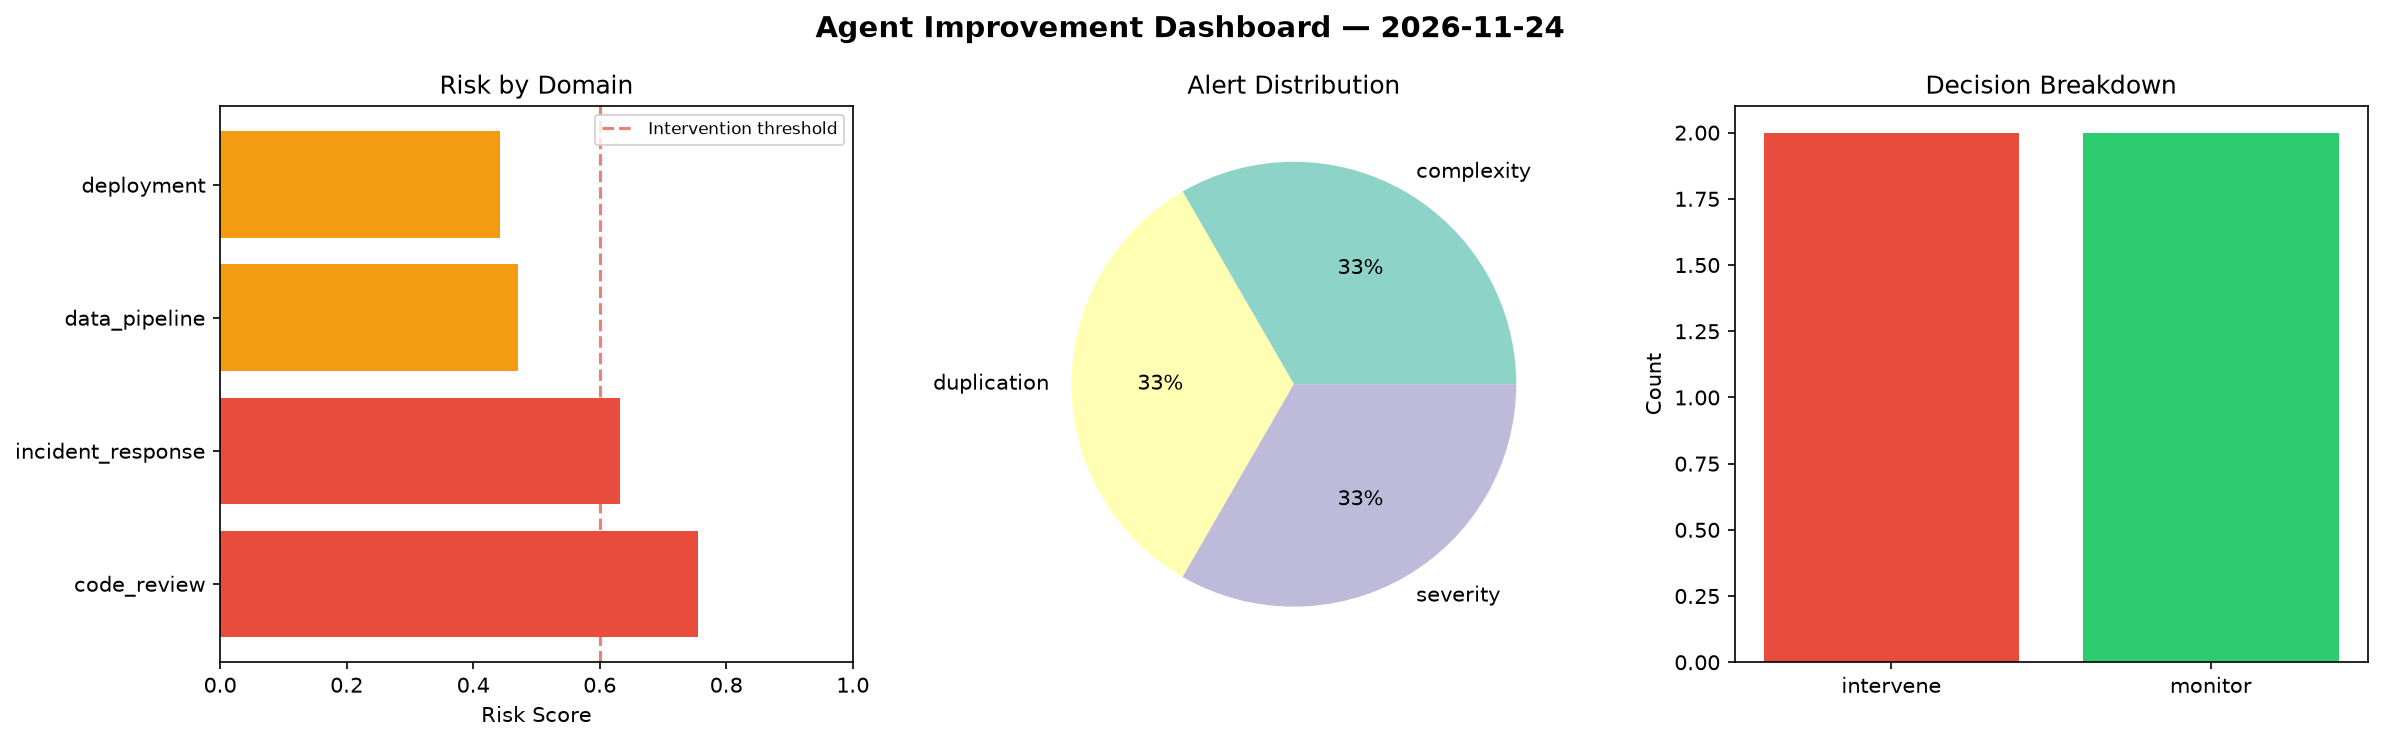
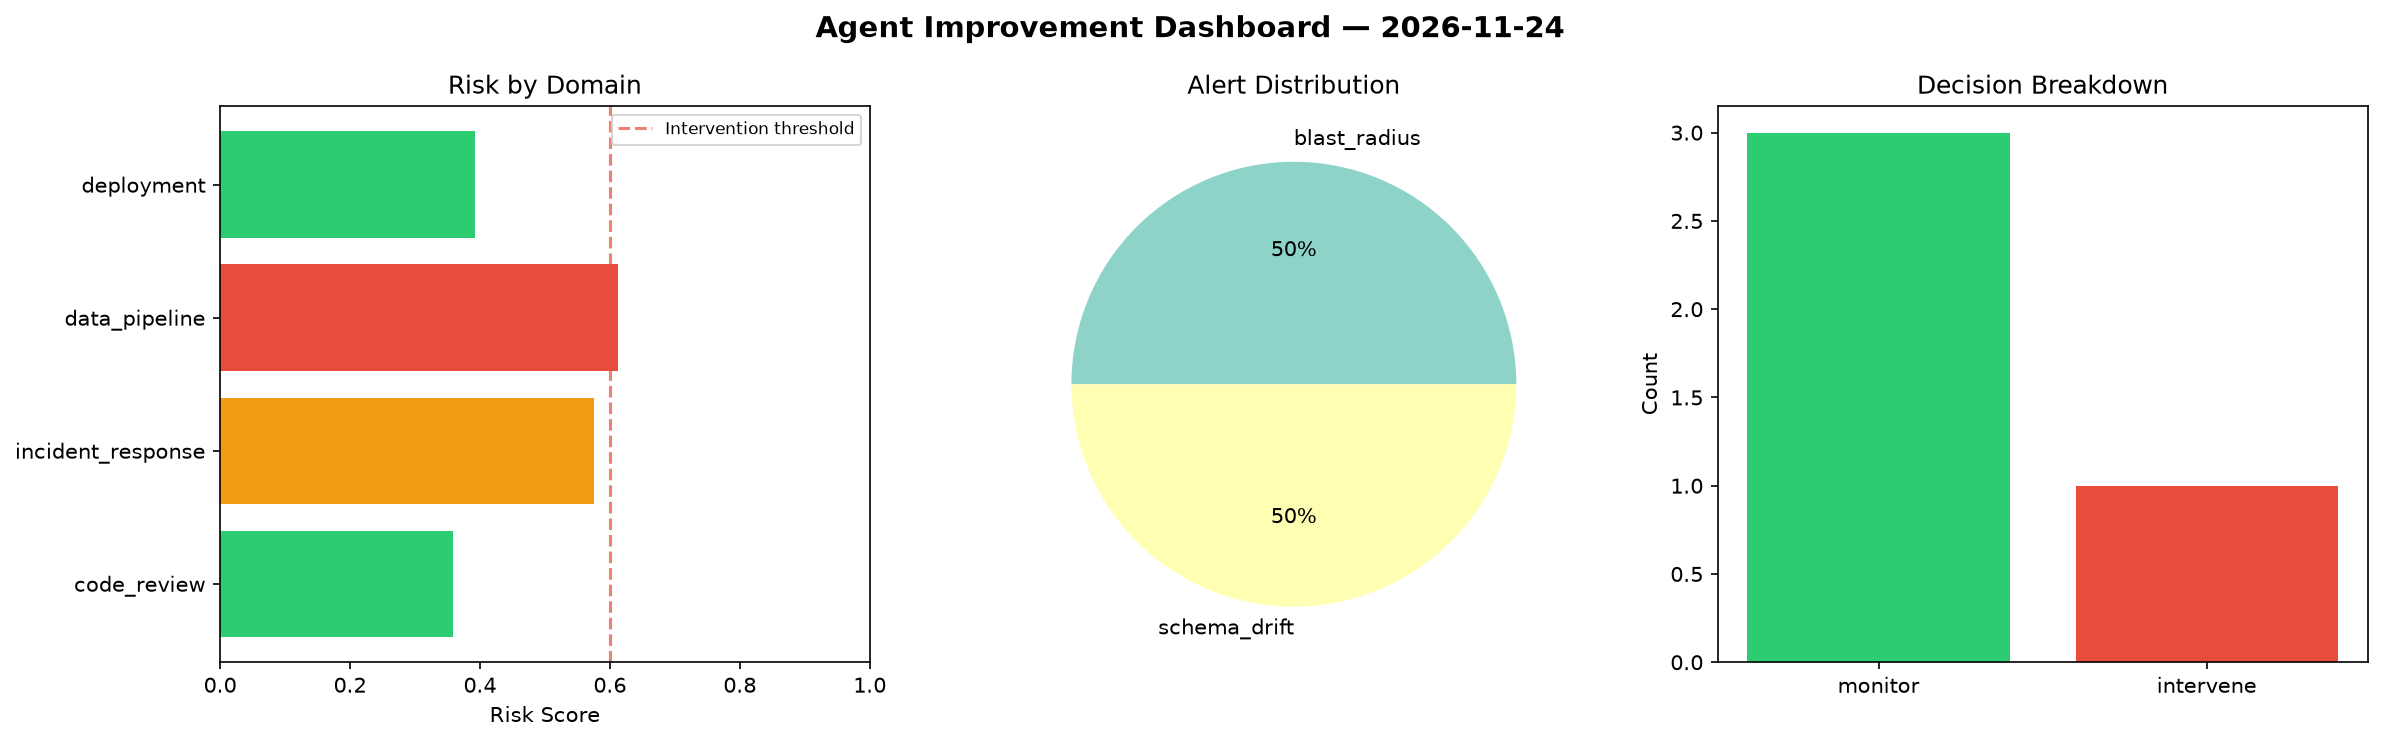
agent-improvement: daily cycle 2026-11-24T23:29

diff --git a/logs/2026-11-24.md b/logs/2026-11-24.md
@@ -1,6 +1,6 @@
 # Agent Improvement Report — 2026-11-24
 
-**Cycle ID:** `8aece17f` | **Avg Risk:** 0.5749 | **Interventions:** 2/4
+**Cycle ID:** `79dae5f2` | **Avg Risk:** 0.485 | **Interventions:** 1/4
 
 ![Dashboard](2026-11-24_dashboard.png)
 
@@ -10,18 +10,18 @@
 
 | Domain | Risk Score | Decision | Alerts |
 |--------|-----------|----------|--------|
-| code_review | 0.7546 | intervene | complexity, duplication |
-| incident_response | 0.6318 | intervene | severity |
-| data_pipeline | 0.4703 | monitor | none |
-| deployment | 0.4431 | monitor | none |
+| code_review | 0.359 | monitor | none |
+| incident_response | 0.5759 | monitor | blast_radius |
+| data_pipeline | 0.612 | intervene | schema_drift |
+| deployment | 0.3931 | monitor | none |
 
 ## Delta vs Yesterday
 
 | Domain | Today | Yesterday | Change |
 |--------|-------|-----------|--------|
-| code_review | 0.7546 | 0.7152 | 📈 5.5% |
-| incident_response | 0.6318 | 0.6008 | 📈 5.2% |
-| data_pipeline | 0.4703 | 0.5259 | 📉 -10.6% |
-| deployment | 0.4431 | 0.5757 | 📉 -23.0% |
+| code_review | 0.359 | 0.7152 | 📉 -49.8% |
+| incident_response | 0.5759 | 0.6008 | 📉 -4.1% |
+| data_pipeline | 0.612 | 0.5259 | 📈 16.4% |
+| deployment | 0.3931 | 0.5757 | 📉 -31.7% |
 
-**Refinement:** `{'adjustment': 'maintain', 'trend': 'improving', 'window': 4}`
+**Refinement:** `{'adjustment': 'tighten_thresholds', 'trend': 'degrading', 'window': 4}`
